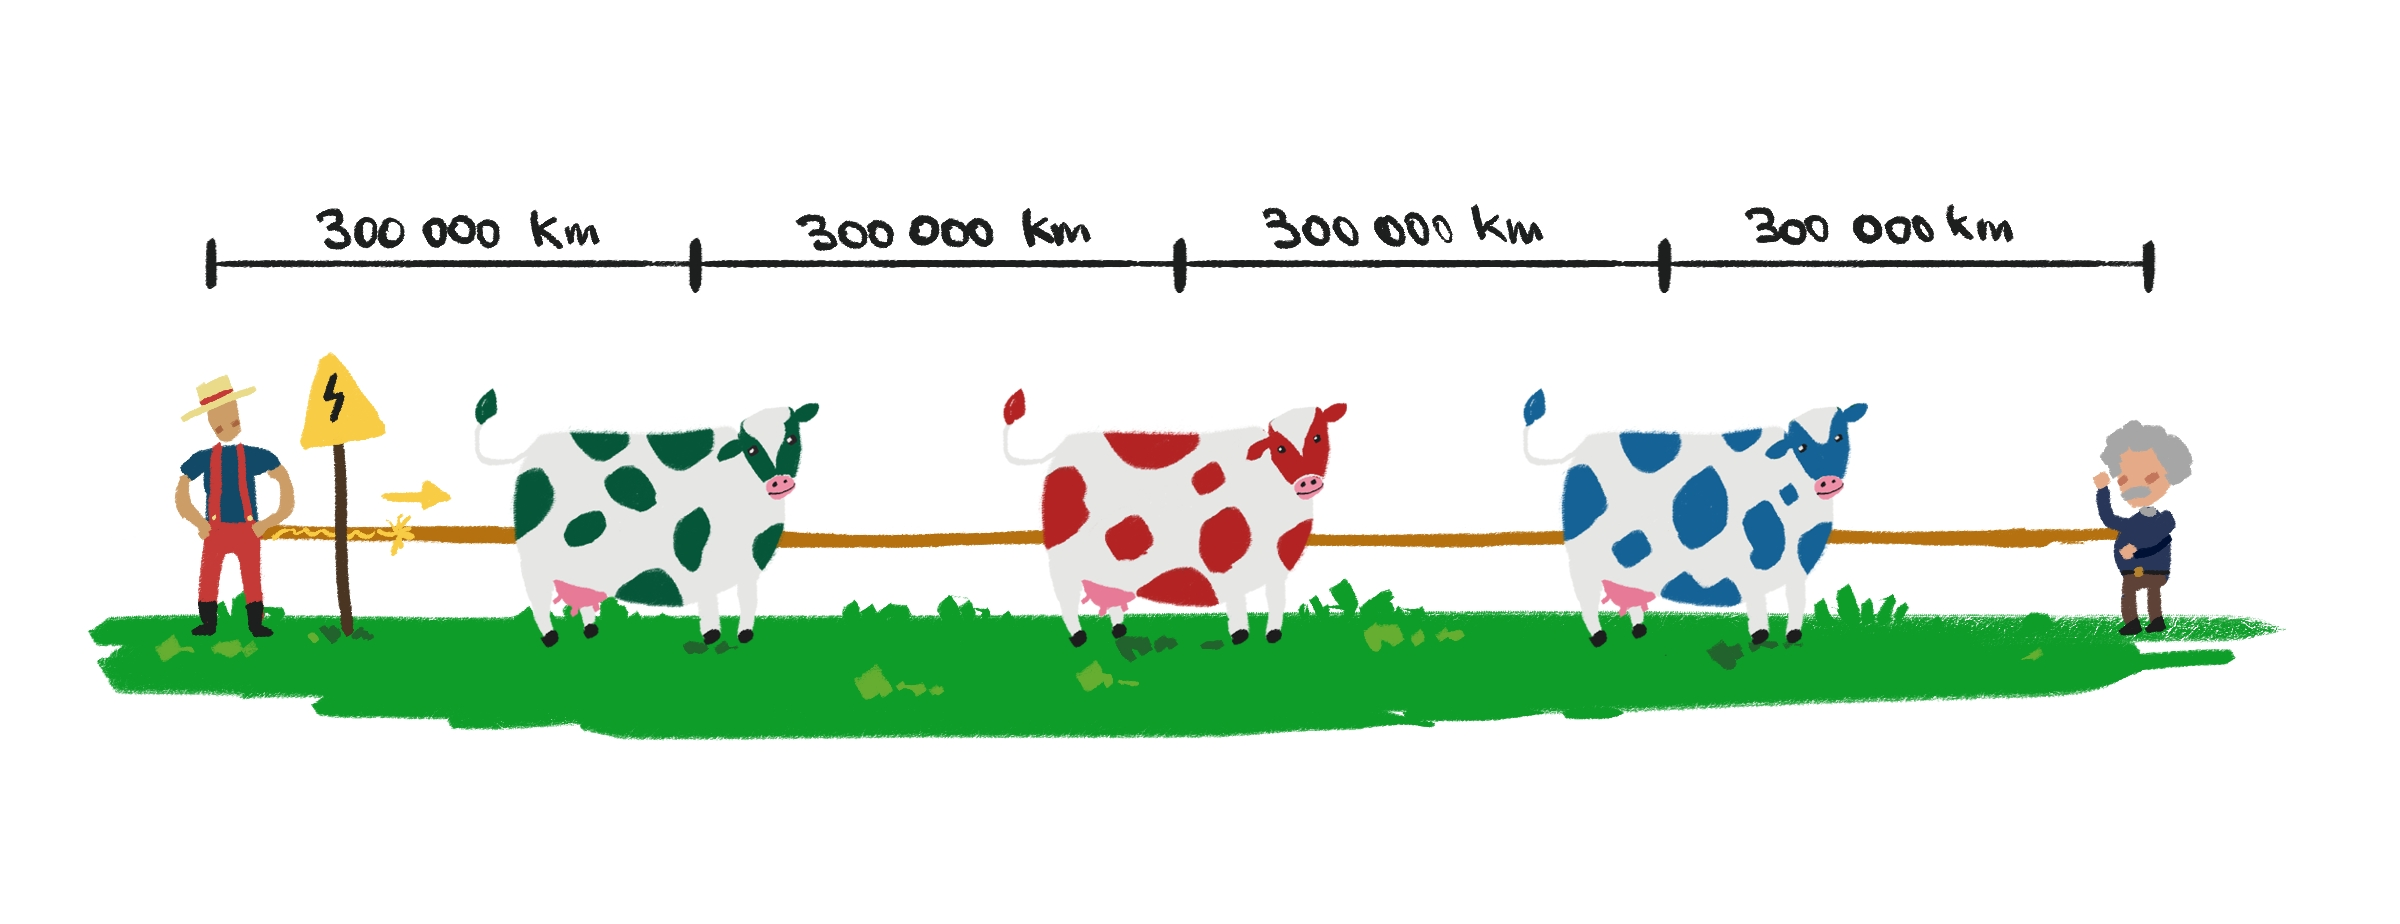
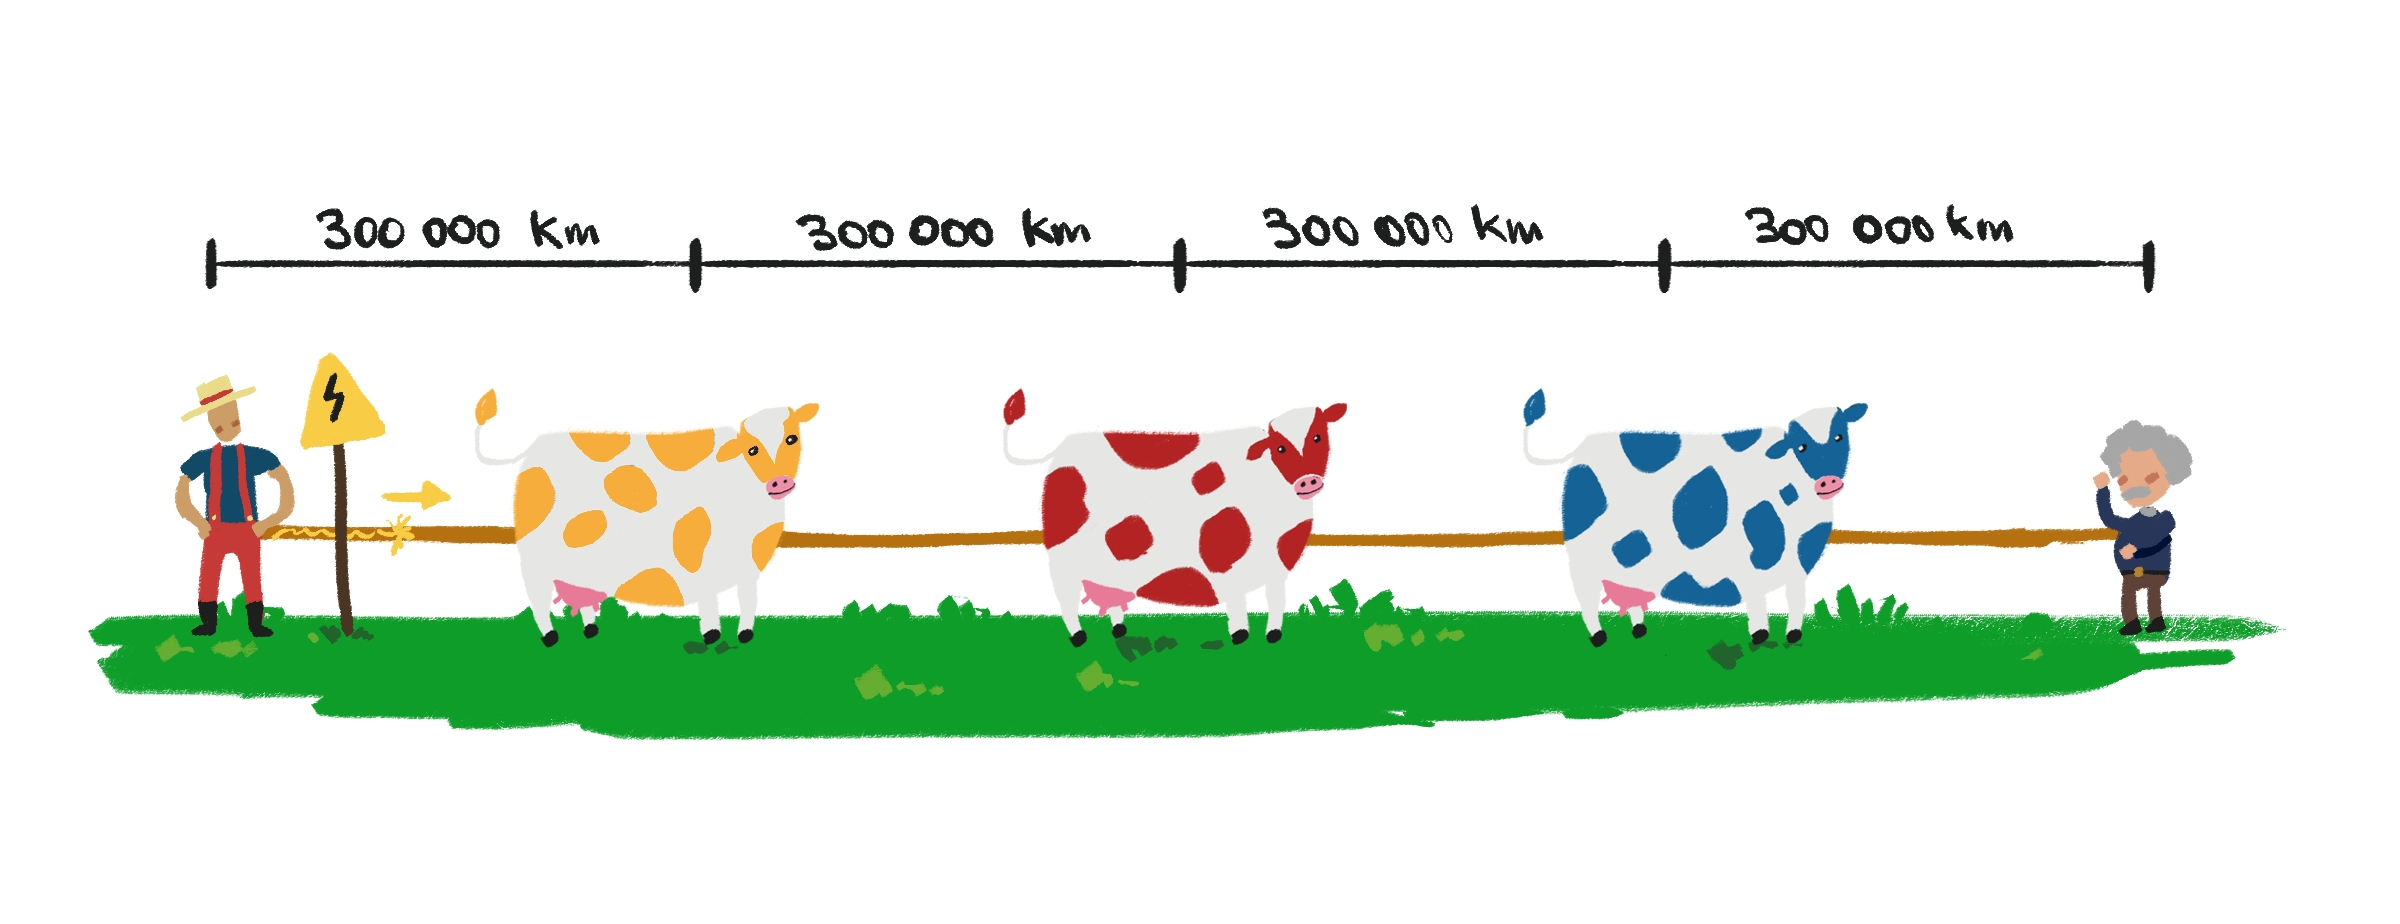
Adds image and updates map.

Changed region(s): [[0.1875, 0.4242, 0.3438, 0.6667], [0.1875, 0.4242, 0.2188, 0.4545]]

diff --git a/index.html b/index.html
@@ -268,7 +268,7 @@
             <section class="box">
                 <h1 class="title">Mucche saltellanti</h1>
                 <div class="block">
-                    Considerate la seguente ipotetica situazione. Tre mucche — una verde, una rossa e una blu — si
+                    Considerate la seguente ipotetica situazione. Tre mucche — una gialla, una rossa e una blu — si
                     trovano in prossimità di un filo di recinzione elettrificato. Ad un'estremità del filo si trova un
                     contadino, mentre dall'altra il giovane Albert. Un impulso elettrico attraversa il filo alla
                     velocità della luce, partendo dal contadino e diretto verso Albert. Quando le mucche sono raggiunte
@@ -324,6 +324,7 @@
                     Immaginate che la terra sia perfettamente sferica e che intorno all'equatore sia stata disposta una
                     fascia aderente. La fascia viene allungata di un metro e sistemata in modo che ogni suo punto si
                     trovi alla stessa altezza rispetto alla superficie terrestre, come un anello intorno al pianeta.
+                    <img src="imgs/quiz/fascia.jpg" class="centered" width="70%">
                 </div>
                 <div class="question">
                     <span>
